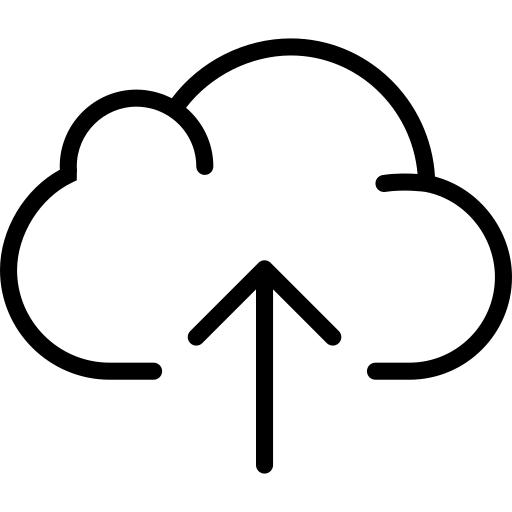
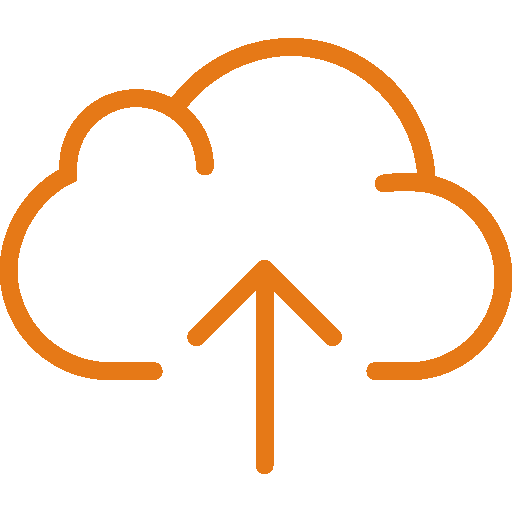
Fininsh proj

Changed region(s): [[0.0, 0.0625, 1.0, 0.75], [0.3438, 0.5, 0.6875, 0.9375]]

diff --git a/src/pages/EnterpriseBody.js b/src/pages/EnterpriseBody.js
@@ -13,31 +13,31 @@ class EnterpriseBody extends Component {
             <Container>
                 <Row>
                     <Col>
-                    <Form>
+                    <Form action="http://web.engr.oregonstate.edu/~zhangluy/tools/class-content/form_tests/check_request.php">
                     <Form.Label>Believe BigUpload is right for your company? Contact us today:</Form.Label>
-                    <Form.Group controlId="formBasicEmail">
-                        <Form.Control placeholder="First Name" />
+                    <Form.Group>
+                        <Form.Control name="firstname" placeholder="First Name" />
                     </Form.Group>
 
-                    <Form.Group controlId="formBasicEmail">
-                        <Form.Control placeholder="Last Name" />
+                    <Form.Group>
+                        <Form.Control name="lastname" placeholder="Last Name" />
                     </Form.Group>
 
-                    <Form.Group controlId="formBasicEmail">
-                        <Form.Control placeholder="Company Name" />
+                    <Form.Group>
+                        <Form.Control name="companyname" placeholder="Company Name" />
                     </Form.Group>
 
-                    <Form.Group controlId="formBasicEmail">
-                        <Form.Control type="email" placeholder="Email Address" />
+                    <Form.Group>
+                        <Form.Control name="emailaddr" type="email" placeholder="Email Address" />
                     </Form.Group>
 
-                    <Form.Group controlId="formBasicEmail">
-                        <Form.Control placeholder="Phone #" />
+                    <Form.Group>
+                        <Form.Control name="phonenum" placeholder="Phone #" />
 
                     </Form.Group>
 
-                    <Form.Group controlId="exampleForm.ControlTextarea1">
-                        <Form.Control as="textarea" rows="4" placeholder="Additional Comments" />
+                    <Form.Group>
+                        <Form.Control name="comments" as="textarea" rows="4" placeholder="Additional Comments" />
                         <Form.Text className="text-muted">
                           We'll be in contact within one business day.
                         </Form.Text>
@@ -47,6 +47,12 @@ class EnterpriseBody extends Component {
                     Conact Me
                     </Button>
                     </Form>
+                    </Col>
+                </Row>
+                <hr/>
+                <Row >
+                    <Col className="text-center">
+                        <h5>Or email us at <a href="mailto:enterprise@big.upload" target="_top">enterprise@big.upload</a></h5>
                     </Col>
                 </Row>
             </Container>

diff --git a/src/pages/DownloadBody.js b/src/pages/DownloadBody.js
@@ -1,0 +1,36 @@
+import React, { Component } from 'react';
+import { Container, Row, Col, Jumbotron, ListGroup } from 'react-bootstrap';
+import BodyHeader from '../components/BodyHeader.js'
+
+import './DownloadBody.css'
+
+class DownloadBody extends Component {
+
+  render() {
+    return (
+        <div>
+        <BodyHeader titleText="Download." subText="Available on all platforms."/>
+        <Jumbotron className="dl-jumbo">
+            <Container>
+                <Row>
+                    <Col className="dl-list">
+                    <ListGroup >
+                        <ListGroup.Item href="/fake-file.exe" action>Mac OSX (click to download)<br/><img src="download.png" height="20px"/></ListGroup.Item>
+                        <ListGroup.Item href="/fake-file.exe" action>Windows<br/><img src="download.png" height="20px"/></ListGroup.Item>
+                        <ListGroup.Item href="/fake-file.exe" action>Linux<br/><img src="download.png" height="20px"/></ListGroup.Item>
+                        <ListGroup.Item href="/fake-file.exe" action>iOS<br/><img src="download.png" height="20px"/></ListGroup.Item>
+                        <ListGroup.Item href="/fake-file.exe" action>Android<br/><img src="download.png" height="20px"/></ListGroup.Item>
+                        <ListGroup.Item href="/fake-file.exe" action>Windows Phone<br/><img src="download.png" height="20px"/></ListGroup.Item>
+                    </ListGroup>
+                    </Col>
+                </Row>
+            </Container>
+        </Jumbotron>
+        </div>
+    );
+
+  }
+
+}
+
+export default DownloadBody;

diff --git a/src/pages/SolutionsBody.js b/src/pages/SolutionsBody.js
@@ -36,7 +36,13 @@ class SolutionsBody extends Component {
                     <br/>
                     <img src="database.png" height="160px"/>
                     </Col>
-                    <Col sm={8}> It was popularised in the 1960s with the release of Letraset sheets containing Lorem Ipsum passages, and more recently with desktop publishing software like Aldus PageMaker including versions of Lorem Ipsum.</Col>
+                    <Col sm={8}>
+                        <ul>
+                          <li>It was popularised in the 1960s with the release of Letraset sheets containing Lorem Ipsum passages</li>
+                          <li>And more recently with desktop publishing software like Aldus PageMaker including versions of Lorem Ipsum.</li>
+                          <li>Contrary to popular belief, Lorem Ipsum is not simply random text. It has roots in a piece of classical Latin literature from 45 BC, making it over 2000 years old.</li>
+                      </ul>
+                    </Col>
                 </Row>
             </Container>
         </Jumbotron>

diff --git a/src/App.js b/src/App.js
@@ -6,12 +6,13 @@ import HomeBody from './pages/HomeBody.js';
 import SolutionsBody from './pages/SolutionsBody.js';
 import PricingBody from './pages/PricingBody.js';
 import EnterpriseBody from './pages/EnterpriseBody.js';
+import DownloadBody from './pages/DownloadBody.js';
 import NotFoundBody from './pages/404.js';
 
 class App extends Component {
   render() {
     return (
-        <div>
+        <div className="App">
             <TopBar/>
             <BrowserRouter>
                 <Switch>
@@ -19,6 +20,7 @@ class App extends Component {
                     <Route path="/solutions" component={SolutionsBody} />
                     <Route path="/pricing" component={PricingBody} />
                     <Route path="/enterprise" component={EnterpriseBody} />
+                    <Route path="/download" component={DownloadBody} />
                     <Route component={NotFoundBody} />
                 </Switch>
             </BrowserRouter>

diff --git a/src/index.js b/src/index.js
@@ -8,7 +8,8 @@ import * as serviceWorker from './serviceWorker';
 //ReactDOM.render(<TopBar />, document.getElementById('root'));
 ReactDOM.render(<App />, document.getElementById('root'));
 
+serviceWorker.register();
+
 // If you want your app to work offline and load faster, you can change
 // unregister() to register() below. Note this comes with some pitfalls.
 // Learn more about service workers: http://bit.ly/CRA-PWA
-serviceWorker.unregister();

diff --git a/src/components/TopBar.js b/src/components/TopBar.js
@@ -20,7 +20,7 @@ class TopBar extends Component {
                     <Nav.Link href="/enterprise">Enterprise</Nav.Link>
                 </Nav>
                 <Nav className="ml-auto bu-nav-right">
-                    <Button href="/solutions" variant="outline-primary">Download Now</Button>
+                    <Button href="/download" variant="outline-primary">Download Now</Button>
                 </Nav>
         </Navbar>
     );

diff --git a/src/global.css b/src/global.css
@@ -42,3 +42,7 @@ code {
     background-color: #E67817;
     border-color: #E67817;
 }
+
+body {
+    background-color: #E9ECEF;
+}

diff --git a/src/pages/EnterpriseBody.css b/src/pages/EnterpriseBody.css
@@ -1,3 +1,3 @@
 .form-jumbo {
-    min-height: 600px;
+    min-height: 660px;
 }

diff --git a/src/pages/DownloadBody.css b/src/pages/DownloadBody.css
@@ -1,0 +1,4 @@
+.dl-list {
+    height:150px;
+    overflow-y: scroll;
+}

diff --git a/README.md b/README.md
@@ -3,10 +3,7 @@
 
 Still needs:
 * Colored icons on home and Solutions
-* Download a file
-* Scroll box
 * Form submit
-* Footer
 * Link to the an outside page
 * Some javascript stuff
 * unordered list
